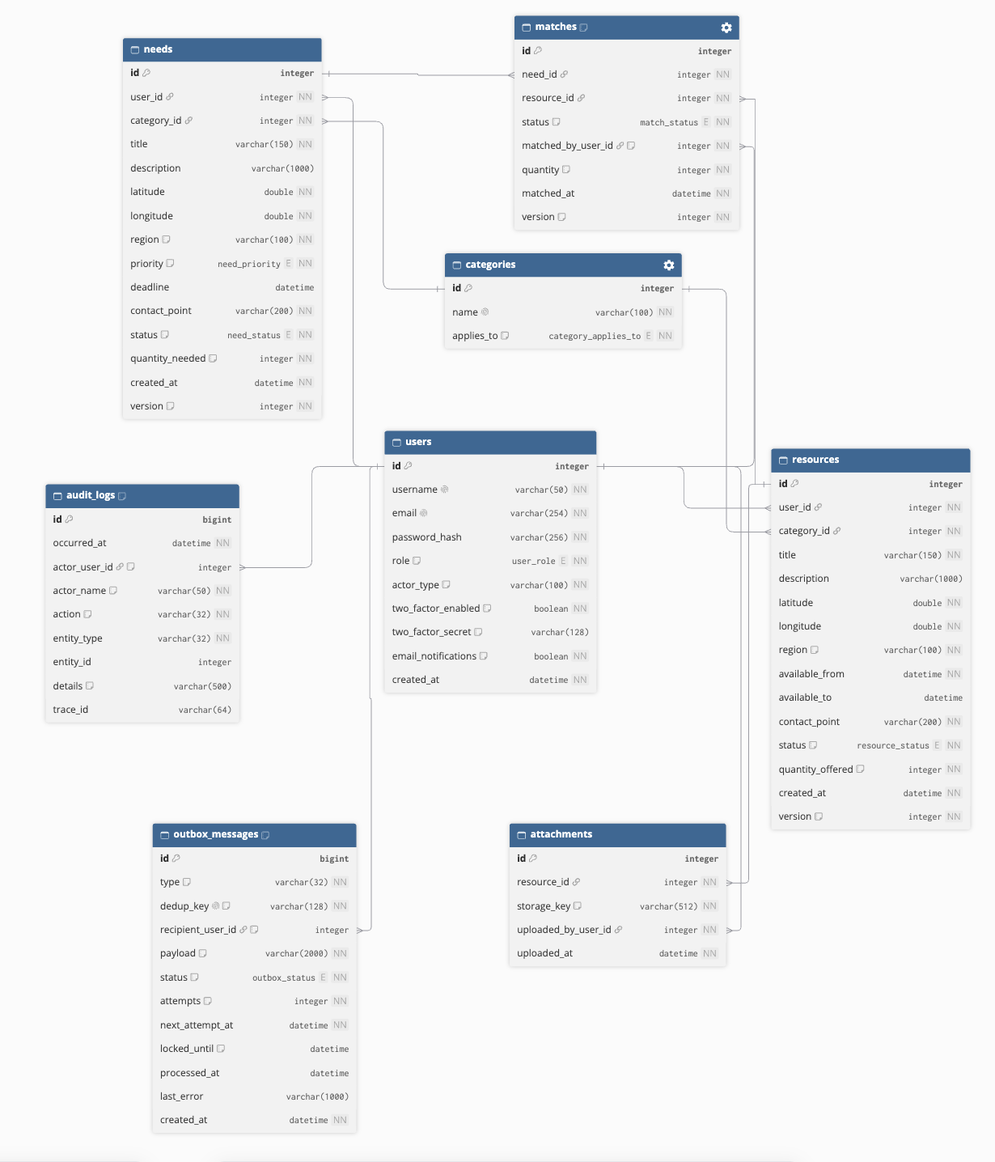
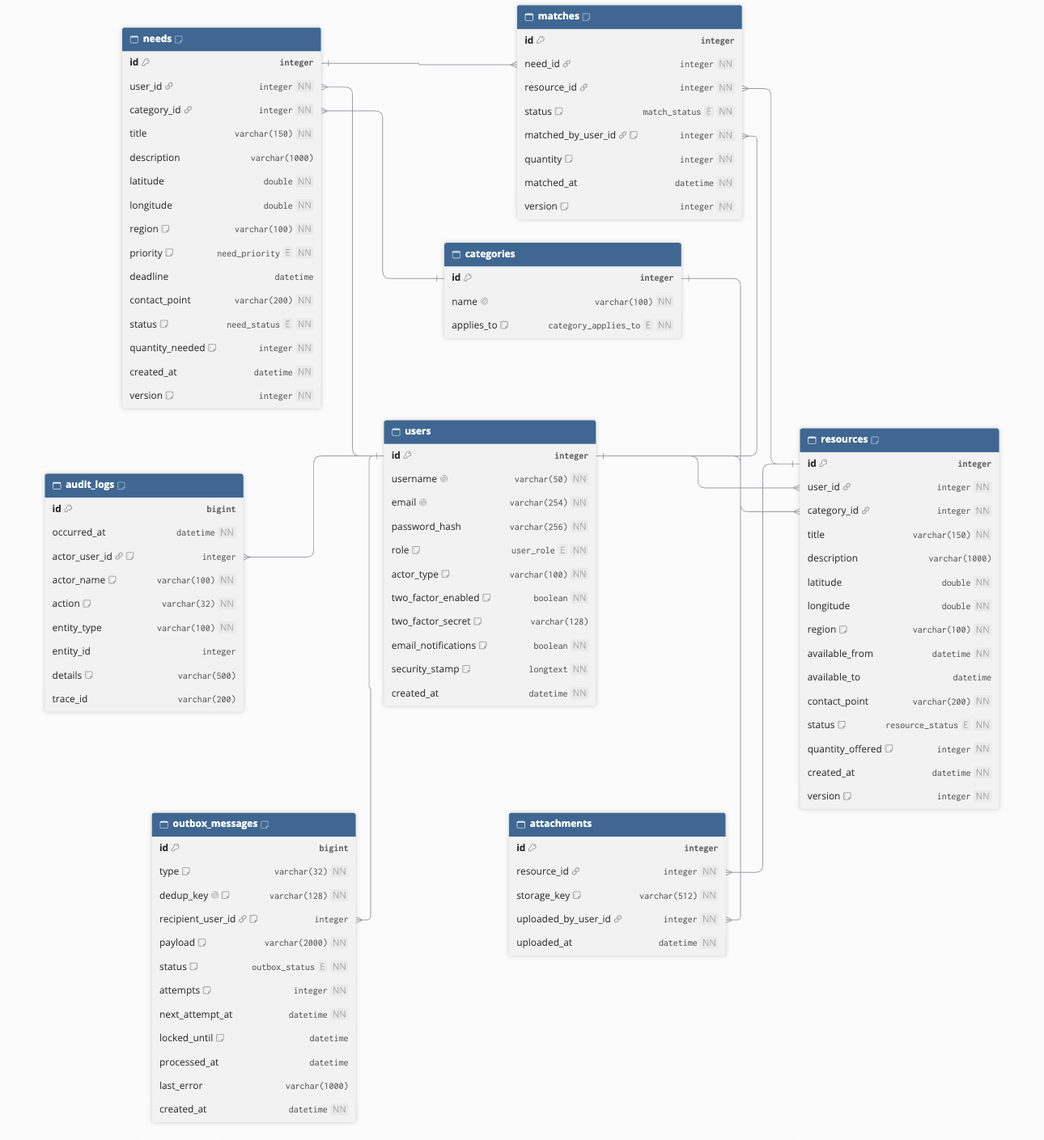
docs(database): sync database.md and ER diagram with AppDbContext

diff --git a/docs/database.md b/docs/database.md
@@ -21,6 +21,10 @@ _The diagram shows the key columns. The following sections describe the tables, 
 
 ## Tables
 
+All configuration lives in `AppDbContext` (`Heimevernet/Data/AppDbContext.cs`), with one `Configure<Entity>` method per entity. Relationships are configured on the dependent (foreign-key-owning) entity.
+
+> **Naming.** This document uses snake_case names (`users`, `user_id`) for readability. EF Core creates the tables and columns with the C# names, so the actual tables are `Users`, `Categories`, `Needs`, `Resources`, `Attachments`, `Matches`, `AuditLogs` and `OutboxMessages`, and columns are named like `UserId` and `QuantityNeeded`. Use the PascalCase names when writing raw SQL.
+
 ### `users`
 
 Stores application accounts. `role` distinguishes `PublicActor` and `ResourceProvider`, while `actor_type` identifies the type of actor, such as Municipality, Police, Private individual or Company.
@@ -29,11 +33,17 @@ Stores application accounts. `role` distinguishes `PublicActor` and `ResourcePro
 
 `email_notifications` (bool, default `true`) is the user's opt-out for [email notifications](./features/notifications.md). It is changed on the account page.
 
+`security_stamp` is a random GUID string that is copied into the authentication cookie as a claim. On every request the cookie's stamp is compared with the stored value, and a mismatch signs the user out. Changing the password generates a new stamp, which invalidates all other sessions for that user. Existing rows were backfilled with `UUID()` by the `AddUserSecurityStamp` migration.
+
+`username` and `email` each have a unique index.
+
 ### `categories`
 
 Stores lookup values such as Transport, Machinery, Equipment, Power, Communication, Personnel, Premises and Materials. `applies_to` (`Need`, `Resource` or `Both`) indicates which entity type can use a category.
 
 The current seed data uses `Both` for all categories, allowing the same category to be used for needs and resources. This supports category-based matching between them.
+
+`name` has a unique index.
 
 ### `needs`
 
@@ -49,7 +59,7 @@ Important columns include `user_id`, `category_id`, `title`, `description`, `lat
 
 `status` tracks the request lifecycle: `New`, `UnderReview`, `Assigned` or `Resolved`.
 
-`quantity_needed` specifies how many units of a resource are required. It defaults to `1`.
+`quantity_needed` specifies how many units of a resource are required. It defaults to `1`, and the check constraint `CK_Needs_QuantityNeeded_Positive` rejects values below `1`.
 
 `version` is an optimistic concurrency token used to detect conflicting updates. It prevents concurrent operations from silently overwriting changes made by another request.
 
@@ -64,7 +74,7 @@ The `status` field uses:
 - `Available`: The resource can be proposed for a need.
 - `Busy`: The resource is currently unavailable.
 
-`quantity_offered` specifies how many units of a resource the provider can offer. It defaults to `1`.
+`quantity_offered` specifies how many units of a resource the provider can offer. It defaults to `1`, and the check constraint `CK_Resources_QuantityOffered_Positive` rejects values below `1`.
 
 `version` is an optimistic concurrency token used to detect conflicting updates.
 
@@ -74,6 +84,8 @@ Stores metadata for resource photos. The image itself is stored in object storag
 
 The public URL is constructed from the storage key when the image is displayed, so the complete URL does not need to be stored in the database.
 
+Attachment rows are deleted automatically when their resource is deleted (cascade). The database cannot remove the objects in storage, so `ResourceService` collects the storage keys before the delete and removes the objects after the transaction has committed.
+
 ### `matches`
 
 Stores explicit pairings between needs and resources.
@@ -82,7 +94,7 @@ Each record contains `need_id`, `resource_id`, `status`, `matched_by_user_id`, `
 
 The creator is required, so a match records which user initiated the pairing.
 
-`quantity` specifies how many units of the resource are allocated to the need through that particular match. It defaults to `1`.
+`quantity` specifies how many units of the resource are allocated to the need through that particular match. It defaults to `1`, and the check constraint `CK_Matches_Quantity_Positive` rejects values below `1`.
 
 `status` tracks the lifecycle of the pairing:
 
@@ -90,7 +102,7 @@ The creator is required, so a match records which user initiated the pairing.
 - `Assigned`: The Resource Provider accepted the proposal and the match quantity has been allocated.
 - `Resolved`: The associated need was marked as resolved. All assigned matches for that need become resolved.
 - `Rejected`: The Resource Provider rejected the proposal.
-- `Cancelled`: The proposal is no longer needed because the need was deleted or fully allocated.
+- `Cancelled`: The proposal is no longer relevant because another accepted match fully allocated the need or the resource.
 
 `version` is an optimistic concurrency token used to detect conflicting updates.
 
@@ -111,15 +123,17 @@ Each record contains:
 - `details`: Optional additional information about the action.
 - `trace_id`: Optional identifier used to correlate the audit entry with application logs and distributed traces.
 
-`actor_user_id` references `users.id`.
+`action` covers sign-in and account events (`LoginSucceeded`, `LoginFailed`, `TwoFactorEnabled`, `TwoFactorDisabled`, `PasswordChanged`, `ProfileUpdated`), need events (`NeedCreated`, `NeedEdited`, `NeedDeleted`, `NeedResolved`), resource events (`ResourceCreated`, `ResourceEdited`, `ResourceDeleted`), attachment events (`AttachmentUploaded`, `AttachmentDeleted`) and match events (`MatchProposed`, `MatchAccepted`, `MatchRejected`, `MatchResolved`).
 
-The combination of `entity_type` and `entity_id` identifies the affected entity without requiring a direct foreign key. This allows audit records to reference different entity types using the same table.
+`actor_user_id` references `users.id`. Deleting a user sets it to null, so the audit history is kept.
+
+The combination of `entity_type` and `entity_id` identifies the affected entity without requiring a direct foreign key. This allows audit records to reference different entity types using the same table. An index on `(entity_type, entity_id)` supports looking up the history of one entity, and an index on `occurred_at` supports listing entries by time.
 
 `actor_name` is stored separately from `actor_user_id` so historical records retain the actor's name even if their account is subsequently modified or deleted.
 
 ### `outbox_messages`
 
-Queue of messages for the background worker (see [Email notifications](./features/notifications.md)). Messages are saved in the same database transaction as the change that creates them (transactional outbox). EF Core creates the table as `OutboxMessages`.
+Queue of messages for the background worker (see [Email notifications](./features/notifications.md)). Messages are saved in the same database transaction as the change that creates them (transactional outbox).
 
 | Column              | Type                       | Notes                                                    |
 | ------------------- | -------------------------- | -------------------------------------------------------- |
@@ -141,6 +155,8 @@ Index on `(status, next_attempt_at)` for the worker's query. Deleting a user set
 ```csharp
 modelBuilder.Entity<OutboxMessage>(b =>
 {
+    b.ToTable(t => t.HasCheckConstraint("CK_OutboxMessages_Status_Valid", EnumCheck<OutboxStatus>("Status")));
+
     b.Property(m => m.Type).HasMaxLength(FieldLimits.EnumText);
     b.Property(m => m.DedupKey).HasMaxLength(FieldLimits.DedupKey);
     b.Property(m => m.Payload).HasMaxLength(FieldLimits.OutboxPayload);
@@ -169,86 +185,188 @@ The outbox gives at-least-once delivery. A worker may send an email and stop bef
 - Audit entries identify affected entities through `entity_type` and `entity_id` rather than direct foreign keys.
 - An outbox message can reference its recipient through `recipient_user_id`. Needs and resources are referenced by id inside the JSON payload, not by foreign key.
 - A unique index on `(need_id, resource_id)` prevents the same pairing from being stored twice.
-- Foreign keys for `Match.MatchedByUser` and `Attachment.UploadedByUser` use restricted deletion.
-- Enum properties are converted to strings in the database for readability.
+- Quantity columns have check constraints that require a value of at least `1`.
+- Enum properties are converted to strings in the database for readability, and check constraints limit each enum column to the names defined by its enum.
+
+### Column lengths
+
+String column lengths are not written as numbers in `AppDbContext`. They come from the constants in `FieldLimits` (`Heimevernet/Models/FieldLimits.cs`), which the validation attributes on the view models also use. The form validation and the database column therefore cannot drift apart.
+
+| Constant          | Length | Used by                                          |
+| ----------------- | ------ | ------------------------------------------------ |
+| `Username`        | 50     | `users.username`                                 |
+| `Email`           | 254    | `users.email`                                    |
+| `PasswordHash`    | 256    | `users.password_hash`                            |
+| `ActorType`       | 100    | `users.actor_type`                               |
+| `TwoFactorSecret` | 128    | `users.two_factor_secret`                        |
+| `Title`           | 150    | `needs.title`, `resources.title`                 |
+| `Description`     | 1000   | `needs.description`, `resources.description`     |
+| `Region`          | 100    | `needs.region`, `resources.region`               |
+| `ContactPoint`    | 200    | `needs.contact_point`, `resources.contact_point` |
+| `CategoryName`    | 100    | `categories.name`                                |
+| `StorageKey`      | 512    | `attachments.storage_key`                        |
+| `EnumText`        | 32     | All enum columns and `outbox_messages.type`      |
+| `AuditActorName`  | 100    | `audit_logs.actor_name`                          |
+| `AuditEntityType` | 100    | `audit_logs.entity_type`                         |
+| `AuditDetails`    | 500    | `audit_logs.details`                             |
+| `AuditTraceId`    | 200    | `audit_logs.trace_id`                            |
+| `DedupKey`        | 128    | `outbox_messages.dedup_key`                      |
+| `OutboxPayload`   | 2000   | `outbox_messages.payload`                        |
+| `OutboxError`     | 1000   | `outbox_messages.last_error`                     |
+
+`FieldLimits.MaxQuantity` (10 000) is the upper bound for quantities. It is enforced by the view models and `MatchService`, not by the database, whose check constraints only enforce the lower bound.
 
 ### Enum conversion
 
-`AppDbContext` configures EF Core to store enum values as strings rather than their underlying integer values.
+`AppDbContext` configures EF Core to store enum values as strings rather than their underlying integer values, in a column limited to `FieldLimits.EnumText` characters.
 
 For example:
 
 ```csharp
-modelBuilder.Entity<Need>()
-    .Property(n => n.Priority)
-    .HasConversion<string>();
-
-modelBuilder.Entity<Need>()
-    .Property(n => n.Status)
-    .HasConversion<string>();
-
-modelBuilder.Entity<Resource>()
-    .Property(r => r.Status)
-    .HasConversion<string>();
-
-modelBuilder.Entity<Match>()
-    .Property(m => m.Status)
-    .HasConversion<string>();
+b.Property(n => n.Priority).HasConversion<string>().HasMaxLength(FieldLimits.EnumText);
+b.Property(n => n.Status).HasConversion<string>().HasMaxLength(FieldLimits.EnumText);
 ```
 
-For example, a need with `Priority = NeedPriority.Critical` is stored as `Critical` instead of its numeric enum value.
+For example, a need with `Priority = NeedPriority.Critical` is stored as `Critical` instead of its numeric enum value. Because values are stored by name, new enum members can be added anywhere in the enum without changing existing rows, but renaming a member requires a data migration.
 
-The same conversion is configured for `User.Role`, `Category.AppliesTo`, `AuditLog.Action`, `OutboxMessage.Status` and other enum properties.
+The same conversion is configured for `User.Role`, `Category.AppliesTo`, `Resource.Status`, `Match.Status`, `AuditLog.Action` and `OutboxMessage.Status`.
+
+A string column on its own accepts any text, so every enum column also has a check constraint that only allows the enum's names. See [Check constraints](#check-constraints).
 
 ### Unique constraints
 
-The model defines unique indexes for usernames, email addresses, need-resource pairings and outbox dedup keys.
+The model defines unique indexes for usernames, email addresses, category names, need-resource pairings and outbox dedup keys.
 
 ```csharp
-modelBuilder.Entity<User>()
-    .HasIndex(u => u.Username)
-    .IsUnique();
+// ConfigureUser
+b.HasIndex(u => u.Username).IsUnique();
+b.HasIndex(u => u.Email).IsUnique();
 
-modelBuilder.Entity<User>()
-    .HasIndex(u => u.Email)
-    .IsUnique();
+// ConfigureCategory
+b.HasIndex(c => c.Name).IsUnique();
 
-modelBuilder.Entity<Match>()
-    .HasIndex(m => new { m.NeedId, m.ResourceId })
-    .IsUnique();
+// ConfigureMatch
+b.HasIndex(m => new { m.NeedId, m.ResourceId }).IsUnique();
+
+// ConfigureOutboxMessage
+b.HasIndex(m => m.DedupKey).IsUnique();
 ```
 
 These constraints provide database-level protection against duplicate values, even if multiple requests attempt to create the same record concurrently.
 
+### Check constraints
+
+The rules below are checked by the application, and the database rejects invalid values as well. This protects the data when rows are written outside the application, for example with raw SQL.
+
+**Quantities** must be at least `1`:
+
+| Constraint                              | Table       | Rule                   |
+| --------------------------------------- | ----------- | ---------------------- |
+| `CK_Needs_QuantityNeeded_Positive`      | `needs`     | `QuantityNeeded >= 1`  |
+| `CK_Resources_QuantityOffered_Positive` | `resources` | `QuantityOffered >= 1` |
+| `CK_Matches_Quantity_Positive`          | `matches`   | `Quantity >= 1`        |
+
+**Enum columns** must contain one of the names defined by their enum:
+
+| Constraint                       | Table             | Column       | Enum                |
+| -------------------------------- | ----------------- | ------------ | ------------------- |
+| `CK_Users_Role_Valid`            | `users`           | `role`       | `UserRole`          |
+| `CK_Categories_AppliesTo_Valid`  | `categories`      | `applies_to` | `CategoryAppliesTo` |
+| `CK_Needs_Priority_Valid`        | `needs`           | `priority`   | `NeedPriority`      |
+| `CK_Needs_Status_Valid`          | `needs`           | `status`     | `NeedStatus`        |
+| `CK_Resources_Status_Valid`      | `resources`       | `status`     | `ResourceStatus`    |
+| `CK_Matches_Status_Valid`        | `matches`         | `status`     | `MatchStatus`       |
+| `CK_AuditLogs_Action_Valid`      | `audit_logs`      | `action`     | `AuditAction`       |
+| `CK_OutboxMessages_Status_Valid` | `outbox_messages` | `status`     | `OutboxStatus`      |
+
+The enum rules are not written by hand. The `EnumCheck<TEnum>` helper in `AppDbContext` builds the expression from the enum's names, so `EnumCheck<ResourceStatus>("Status")` becomes `Status IN ('Available', 'Busy')`:
+
+```csharp
+b.ToTable(t =>
+{
+    t.HasCheckConstraint("CK_Resources_QuantityOffered_Positive", "QuantityOffered >= 1");
+    t.HasCheckConstraint("CK_Resources_Status_Valid", EnumCheck<ResourceStatus>("Status"));
+});
+```
+
+Adding, renaming or removing an enum member changes the expression. EF Core detects this, so run `dotnet ef migrations add` afterwards. The generated migration drops and re-creates the constraint. Without that migration, the database rejects the new value. Removing or renaming a member also requires existing rows to be updated first, otherwise the new constraint cannot be created.
+
+### Indexes
+
+Besides the unique indexes above and the indexes EF Core creates for foreign keys, the following indexes support the most frequent queries:
+
+| Table             | Columns                                      | Supports                                                                                                  |
+| ----------------- | -------------------------------------------- | --------------------------------------------------------------------------------------------------------- |
+| `needs`           | `(status, latitude, longitude)`              | The map. Equality on `status` first, then a range on `latitude`; `longitude` is filtered inside the index |
+| `needs`           | `region`                                     | The region dropdown (`DISTINCT`) and the region filter                                                    |
+| `resources`       | `(status, latitude, longitude)`              | The map for public actors (`Available` inside a bounding box) and available lists                         |
+| `resources`       | `(category_id, status, latitude, longitude)` | Nearby search and candidate matching. Also replaces the separate foreign-key index on `category_id`       |
+| `resources`       | `region`                                     | The region dropdown and the region filter                                                                 |
+| `audit_logs`      | `(entity_type, entity_id)`                   | The history of one entity                                                                                 |
+| `audit_logs`      | `occurred_at`                                | Listing entries by time                                                                                   |
+| `outbox_messages` | `(status, next_attempt_at)`                  | The worker's query for due messages                                                                       |
+
+All are B-tree indexes. Only one column of a composite index can be used as a range, which is why the status (equality) column comes first.
+
 ### Optimistic concurrency
 
-`Need`, `Resource` and `Match` implement the `IVersioned` interface and contain a `Version` property.
+`Need`, `Resource` and `Match` implement the `IVersioned` interface and contain a `Version` property, which is configured as a concurrency token with `IsConcurrencyToken()`.
 
-The version is used to detect concurrent modifications. When an entity is updated, EF Core checks that its version has not changed since it was loaded. If another operation has modified the entity in the meantime, the update results in a concurrency conflict instead of silently overwriting the newer data.
+`AppDbContext` overrides `SaveChangesAsync` and increments `Version` on every modified `IVersioned` entity before saving:
+
+```csharp
+public override Task<int> SaveChangesAsync(CancellationToken cancellationToken = default)
+{
+    foreach (var entry in ChangeTracker.Entries<IVersioned>()
+                 .Where(e => e.State == EntityState.Modified))
+    {
+        entry.Entity.Version++;
+    }
+
+    return base.SaveChangesAsync(cancellationToken);
+}
+```
+
+EF Core adds `WHERE Version = <loaded value>` to the `UPDATE`. If another operation has modified the entity in the meantime, no row matches, and EF Core throws a `DbUpdateConcurrencyException` instead of silently overwriting the newer data. Services do not set `Version` themselves.
+
+Only `SaveChangesAsync` increments the version. The synchronous `SaveChanges` and bulk operations such as `ExecuteUpdateAsync` bypass the change tracker and must not be used on versioned entities.
 
 `OutboxMessage` has no version. Workers claim a message with one atomic `UPDATE ... WHERE` that only matches rows that are still due, so two workers can never claim the same row. See [Email notifications](./features/notifications.md#step-2-the-worker-claims-due-rows).
 
 ### Delete behaviour
 
-The creator relationship on `Match` and the uploader relationship on `Attachment` explicitly restrict deletion.
+Every relationship has an explicit delete behaviour:
+
+| Relationship                                  | On delete of parent | Effect                                                            |
+| --------------------------------------------- | ------------------- | ----------------------------------------------------------------- |
+| `needs.user_id` → `users`                     | Restrict            | A user who has created needs cannot be deleted                    |
+| `needs.category_id` → `categories`            | Restrict            | A category in use by needs cannot be deleted                      |
+| `resources.user_id` → `users`                 | Restrict            | A user who has created resources cannot be deleted                |
+| `resources.category_id` → `categories`        | Restrict            | A category in use by resources cannot be deleted                  |
+| `attachments.resource_id` → `resources`       | Cascade             | Deleting a resource deletes its attachment rows                   |
+| `attachments.uploaded_by_user_id` → `users`   | Restrict            | A user who has uploaded attachments cannot be deleted             |
+| `matches.need_id` → `needs`                   | Restrict            | A need with matches cannot be deleted                             |
+| `matches.resource_id` → `resources`           | Restrict            | A resource with matches cannot be deleted                         |
+| `matches.matched_by_user_id` → `users`        | Restrict            | A user who has created matches cannot be deleted                  |
+| `audit_logs.actor_user_id` → `users`          | Set null            | The audit entry is kept and the actor reference is cleared        |
+| `outbox_messages.recipient_user_id` → `users` | Set null            | The queued message is kept and the recipient reference is cleared |
 
 ```csharp
-modelBuilder.Entity<Match>()
-    .HasOne(m => m.MatchedByUser)
-    .WithMany(u => u.MatchesCreated)
+// Prevent deleting a need if it has associated matches.
+b.HasOne(m => m.Need)
+    .WithMany(n => n.Matches)
     .OnDelete(DeleteBehavior.Restrict);
 
-modelBuilder.Entity<Attachment>()
-    .HasOne(a => a.UploadedByUser)
-    .WithMany(u => u.UploadedAttachments)
-    .OnDelete(DeleteBehavior.Restrict);
+// Preserve audit logs when the associated user is deleted.
+b.HasOne(a => a.ActorUser)
+    .WithMany(u => u.AuditLogs)
+    .HasForeignKey(a => a.ActorUserId)
+    .OnDelete(DeleteBehavior.SetNull);
 ```
 
-This prevents deleting a user while records still reference that user through these relationships.
+Restrict protects the history of matches and the records that reference them. The application applies the same rule first: `OwnedRecordPolicy.CanDeleteNeed` and `CanDeleteResource` refuse to delete a need or resource that has any match, so users get a clear message instead of a database error. The database constraint is the last line of defence if the application check is bypassed.
 
-The audit log actor relationship should use `DeleteBehavior.SetNull` if audit entries must be preserved when a user is deleted. Its foreign key is nullable, allowing the actor reference to be cleared while retaining the historical `actor_name`.
-
-The delete behaviour of other relationships is determined by their configuration and EF Core conventions.
+`audit_logs.actor_user_id` and `outbox_messages.recipient_user_id` are nullable, so they can be cleared while the audit entry keeps its `actor_name` and the queued message is still processed.
 
 ## Why `Match` is a separate table
 
@@ -279,11 +397,11 @@ Only `Assigned` matches count towards allocated quantities. Matches with `UnderR
 | `categories.applies_to`  | `Need`, `Resource`, `Both`                                     | Entity types that can use the category |
 | `outbox_messages.status` | `Pending`, `Processing`, `Done`, `Failed`                      | Asynchronous message processing state  |
 
-These statuses are separate because they describe different aspects of the application.
+These statuses are separate because they describe different aspects of the application. The database only accepts the values listed here (see [Check constraints](#check-constraints)).
 
 A match does not start as `New`, because a match record is created only after a user initiates a pairing.
 
-A rejected match does not allocate resource quantity. A cancelled match is no longer active and does not reserve quantity. An assigned match represents an accepted allocation. When its need is resolved, the assigned matches become resolved as part of the resolution workflow.
+A rejected match does not allocate resource quantity. A cancelled match is no longer active and does not reserve quantity. An assigned match represents an accepted allocation. When accepting a match fully allocates the need, the need becomes `Assigned`; when it fully allocates the resource, the resource becomes `Busy`. In both cases the other pending proposals for that need or resource are cancelled. When a need is resolved, its assigned matches become resolved as part of the resolution workflow.
 
 See [Matching](./features/matching.md) for details of how the statuses change together.
 
@@ -299,7 +417,7 @@ For example, when a public actor registers a critical need:
 
 1. The need is saved.
 2. An audit log entry records `NeedCreated`.
-3. A `CriticalNeedRegistered` outbox message is created, which later becomes emails to nearby resource providers.
+3. A `CriticalNeedRegistered` outbox message is created, which later becomes `CriticalNeedEmail` messages to nearby resource providers.
 
 These database operations are performed within the same transaction. This ensures that the business operation, audit entry and notification request are persisted together.
 
@@ -332,7 +450,7 @@ The database uses a single `users` table with a `role` discriminator.
 
 The single-table approach fits the current model because the roles share the same user fields, while authorization determines which actions each role can perform. If a subtype later requires its own fields, such as a jurisdiction for public actors or an organisation number for providers, table-per-subtype could become more appropriate.
 
-The database model shown does not itself enforce that every user has exactly one of these roles; that invariant must be maintained by application logic or additional database constraints.
+The database enforces that every user has exactly one of these roles. `role` is a required column, and `CK_Users_Role_Valid` only allows `PublicActor` or `ResourceProvider`.
 
 ### `Need` and `Resource` as separate entities
 
